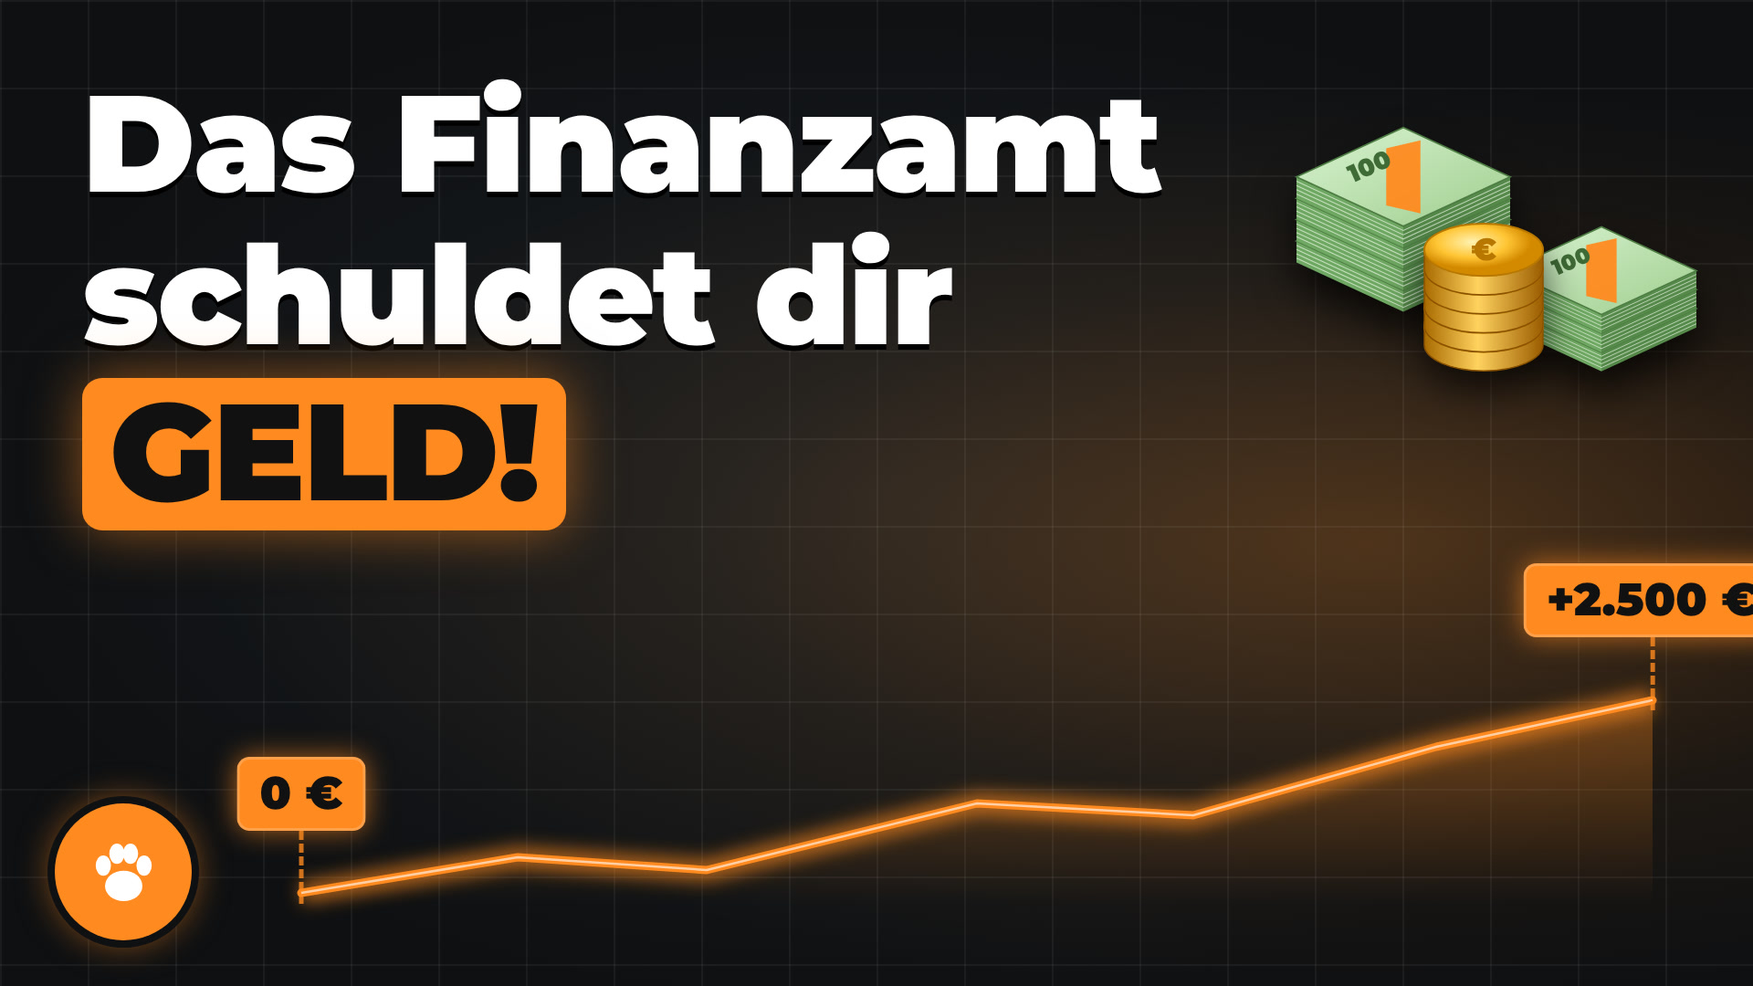
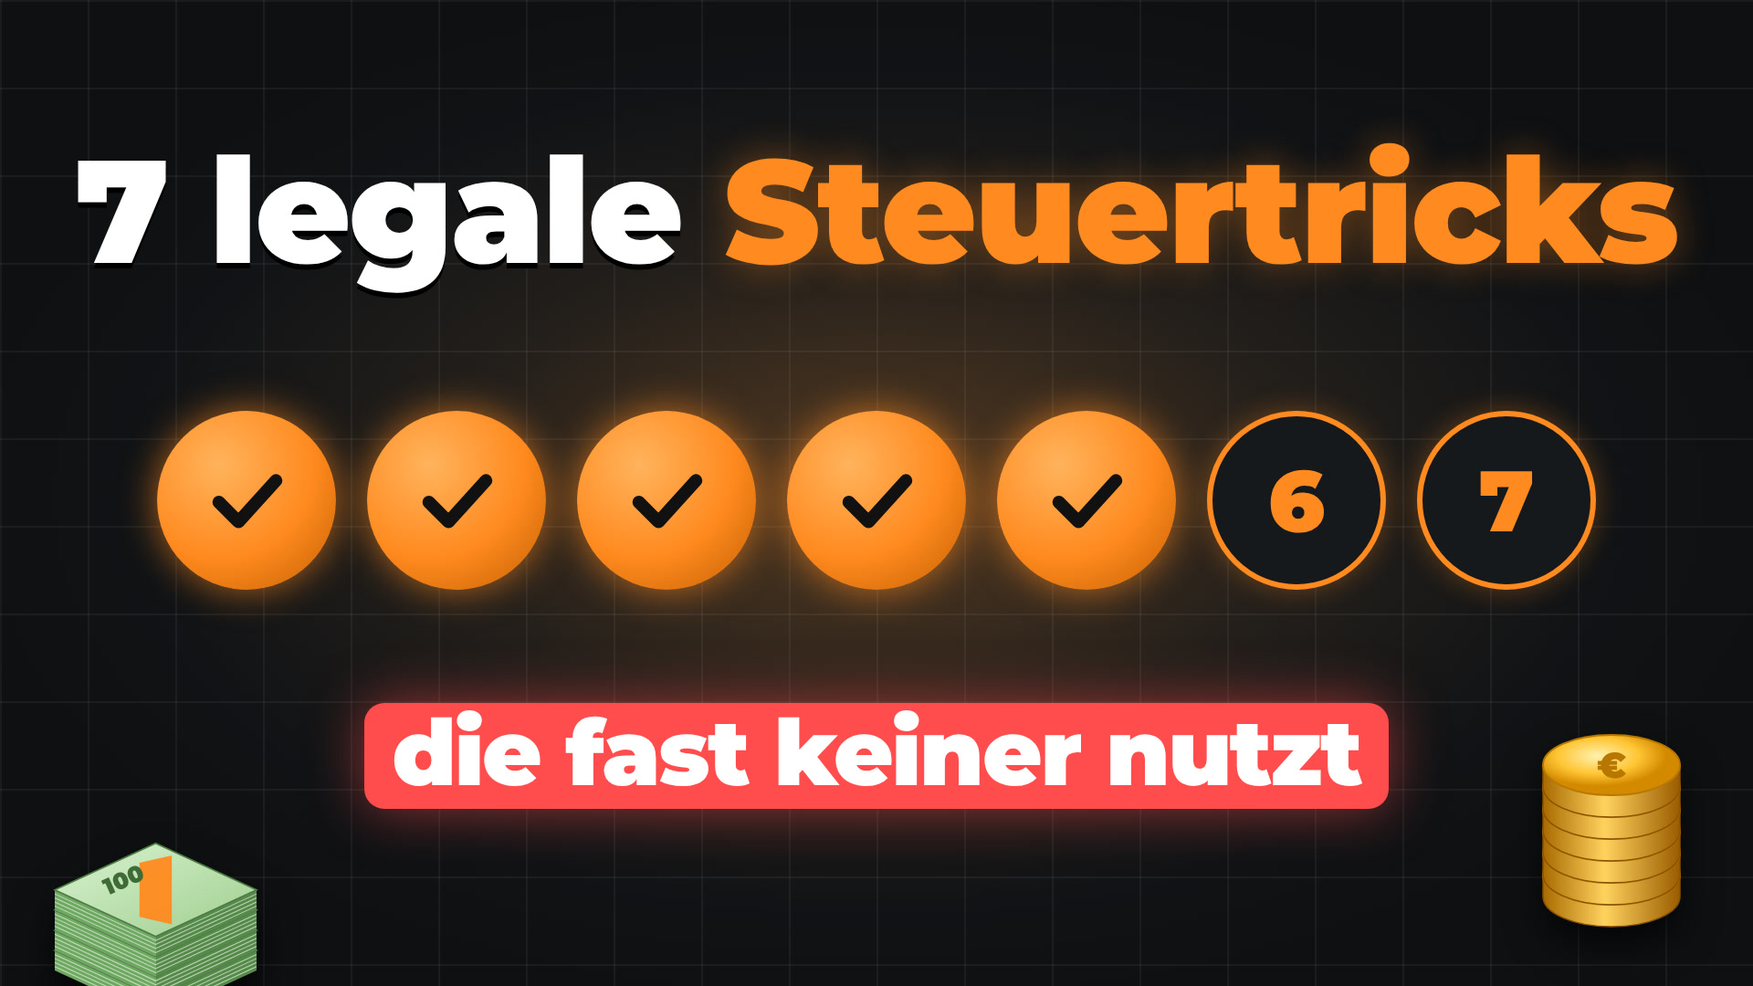
Steuer: Thumbnail + Cover im Dark-Glow-Stil (ohne Pfote)
Claude-Session: https://claude.ai/code/session_01XBnSHJxa6BBKhWdF9iTPXU

diff --git a/videos/thumbs-steuer/index.html b/videos/thumbs-steuer/index.html
@@ -8,7 +8,7 @@
       * { margin: 0; padding: 0; box-sizing: border-box; }
       html, body { width: 1080px; height: 1920px; overflow: hidden; background: #0e1012; }
       #root { position: relative; width: 100%; height: 100%; font-family: Montserrat, sans-serif; overflow: hidden;
-        background: radial-gradient(ellipse at 78% 55%, #ff8a1f40 0%, #ff8a1f10 35%, transparent 60%),
+        background: radial-gradient(ellipse at 50% 50%, #ff8a1f40 0%, #ff8a1f10 35%, transparent 60%),
                     radial-gradient(ellipse at 50% 50%, #1b1f22 0%, #0e1012 75%); }
       #raster { position: absolute; inset: 0; background-image: linear-gradient(#ffffff0d 2px, transparent 2px), linear-gradient(90deg, #ffffff0d 2px, transparent 2px);
         background-size: 96px 96px; }
@@ -18,7 +18,7 @@
   <body>
     <div id="root" data-composition-id="main" data-start="0" data-duration="1" data-width="1080" data-height="1920">
       <div id="raster"></div>
-<div id="v0" class="scene clip" data-start="0" data-duration="1" data-track-index="1"><svg viewBox="0 -60 260 300" style="position:absolute;left:160px;top:250px;width:312.0px;height:360.0px;overflow:visible;filter:drop-shadow(0 24px 22px #000b);z-index:2"><defs><linearGradient id="b8t" x1="0" y1="0" x2="1" y2="1"><stop offset="0" stop-color="#d9f2d0"/><stop offset="1" stop-color="#9fcf8f"/></linearGradient></defs><polygon points="0,200 130.0,260.0 130.0,286.0 0,226" fill="#6fa862"/><polygon points="260,200 130.0,260.0 130.0,286.0 260,226" fill="#558a4a"/><path d="M0 205.2 L130.0 265.2 L260 205.2" fill="none" stroke="#e8f5e2" stroke-width="1.2" opacity="0.7"/><path d="M0 210.4 L130.0 270.4 L260 210.4" fill="none" stroke="#e8f5e2" stroke-width="1.2" opacity="0.7"/><path d="M0 215.6 L130.0 275.6 L260 215.6" fill="none" stroke="#e8f5e2" stroke-width="1.2" opacity="0.7"/><path d="M0 220.8 L130.0 280.8 L260 220.8" fill="none" stroke="#e8f5e2" stroke-width="1.2" opacity="0.7"/><polygon points="0,200 130.0,140.0 260,200 130.0,260.0" fill="url(#b8t)" stroke="#4d7d43" stroke-width="2"/><polygon points="0,174 130.0,234.0 130.0,260.0 0,200" fill="#6fa862"/><polygon points="260,174 130.0,234.0 130.0,260.0 260,200" fill="#558a4a"/><path d="M0 179.2 L130.0 239.2 L260 179.2" fill="none" stroke="#e8f5e2" stroke-width="1.2" opacity="0.7"/><path d="M0 184.4 L130.0 244.4 L260 184.4" fill="none" stroke="#e8f5e2" stroke-width="1.2" opacity="0.7"/><path d="M0 189.6 L130.0 249.6 L260 189.6" fill="none" stroke="#e8f5e2" stroke-width="1.2" opacity="0.7"/><path d="M0 194.8 L130.0 254.8 L260 194.8" fill="none" stroke="#e8f5e2" stroke-width="1.2" opacity="0.7"/><polygon points="0,174 130.0,114.0 260,174 130.0,234.0" fill="url(#b8t)" stroke="#4d7d43" stroke-width="2"/><polygon points="0,148 130.0,208.0 130.0,234.0 0,174" fill="#6fa862"/><polygon points="260,148 130.0,208.0 130.0,234.0 260,174" fill="#558a4a"/><path d="M0 153.2 L130.0 213.2 L260 153.2" fill="none" stroke="#e8f5e2" stroke-width="1.2" opacity="0.7"/><path d="M0 158.4 L130.0 218.4 L260 158.4" fill="none" stroke="#e8f5e2" stroke-width="1.2" opacity="0.7"/><path d="M0 163.6 L130.0 223.6 L260 163.6" fill="none" stroke="#e8f5e2" stroke-width="1.2" opacity="0.7"/><path d="M0 168.8 L130.0 228.8 L260 168.8" fill="none" stroke="#e8f5e2" stroke-width="1.2" opacity="0.7"/><polygon points="0,148 130.0,88.0 260,148 130.0,208.0" fill="url(#b8t)" stroke="#4d7d43" stroke-width="2"/><polygon points="0,122 130.0,182.0 130.0,208.0 0,148" fill="#6fa862"/><polygon points="260,122 130.0,182.0 130.0,208.0 260,148" fill="#558a4a"/><path d="M0 127.2 L130.0 187.2 L260 127.2" fill="none" stroke="#e8f5e2" stroke-width="1.2" opacity="0.7"/><path d="M0 132.4 L130.0 192.4 L260 132.4" fill="none" stroke="#e8f5e2" stroke-width="1.2" opacity="0.7"/><path d="M0 137.6 L130.0 197.6 L260 137.6" fill="none" stroke="#e8f5e2" stroke-width="1.2" opacity="0.7"/><path d="M0 142.8 L130.0 202.8 L260 142.8" fill="none" stroke="#e8f5e2" stroke-width="1.2" opacity="0.7"/><polygon points="0,122 130.0,62.0 260,122 130.0,182.0" fill="url(#b8t)" stroke="#4d7d43" stroke-width="2"/><polygon points="109.2,87.2 150.79999999999998,77.6 150.79999999999998,166.4 109.2,156.8" fill="#ff8a1f" opacity="0.95"/><text x="65.0" y="130" font-family="Montserrat" font-weight="900" font-size="30" fill="#3f6b36" transform="rotate(-24 65.0 122)">100</text></svg><svg viewBox="0 0 190 276.0" style="position:absolute;left:680px;top:230px;width:190px;height:276.0px;overflow:visible;filter:drop-shadow(0 20px 20px #000a);z-index:2"><defs><linearGradient id="m9s" x1="0" x2="1"><stop offset="0" stop-color="#a86a00"/><stop offset="0.45" stop-color="#ffd25e"/><stop offset="1" stop-color="#9a5c00"/></linearGradient><radialGradient id="m9t" cx="0.4" cy="0.35"><stop offset="0" stop-color="#fff2b0"/><stop offset="0.6" stop-color="#ffc533"/><stop offset="1" stop-color="#d48a00"/></radialGradient></defs><path d="M0 198.79999999999998 L0 229.2 A95.0 41.8 0 0 0 190 229.2 L190 198.79999999999998 Z" fill="url(#m9s)" stroke="#8a5200" stroke-width="1.5"/><ellipse cx="95.0" cy="198.79999999999998" rx="95.0" ry="41.8" fill="url(#m9t)" stroke="#b87800" stroke-width="2"/><path d="M0 168.39999999999998 L0 198.79999999999998 A95.0 41.8 0 0 0 190 198.79999999999998 L190 168.39999999999998 Z" fill="url(#m9s)" stroke="#8a5200" stroke-width="1.5"/><ellipse cx="95.0" cy="168.39999999999998" rx="95.0" ry="41.8" fill="url(#m9t)" stroke="#b87800" stroke-width="2"/><path d="M0 137.99999999999997 L0 168.39999999999998 A95.0 41.8 0 0 0 190 168.39999999999998 L190 137.99999999999997 Z" fill="url(#m9s)" stroke="#8a5200" stroke-width="1.5"/><ellipse cx="95.0" cy="137.99999999999997" rx="95.0" ry="41.8" fill="url(#m9t)" stroke="#b87800" stroke-width="2"/><path d="M0 107.6 L0 138.0 A95.0 41.8 0 0 0 190 138.0 L190 107.6 Z" fill="url(#m9s)" stroke="#8a5200" stroke-width="1.5"/><ellipse cx="95.0" cy="107.6" rx="95.0" ry="41.8" fill="url(#m9t)" stroke="#b87800" stroke-width="2"/><path d="M0 77.19999999999997 L0 107.59999999999998 A95.0 41.8 0 0 0 190 107.59999999999998 L190 77.19999999999997 Z" fill="url(#m9s)" stroke="#8a5200" stroke-width="1.5"/><ellipse cx="95.0" cy="77.19999999999997" rx="95.0" ry="41.8" fill="url(#m9t)" stroke="#b87800" stroke-width="2"/><path d="M0 46.79999999999998 L0 77.19999999999999 A95.0 41.8 0 0 0 190 77.19999999999999 L190 46.79999999999998 Z" fill="url(#m9s)" stroke="#8a5200" stroke-width="1.5"/><ellipse cx="95.0" cy="46.79999999999998" rx="95.0" ry="41.8" fill="url(#m9t)" stroke="#b87800" stroke-width="2"/><text x="95.0" y="63.89999999999998" text-anchor="middle" font-family="Montserrat" font-weight="900" font-size="49.4" fill="#b87800">€</text></svg><div style="position:absolute;left:0px;top:640px;width:1080px;font-weight:900;font-size:118px;line-height:1.02;letter-spacing:-2px;text-align:center;display:flex;flex-direction:column;gap:14px;z-index:3"><div style="color:#fff;text-shadow:0 6px 0 #000">Das Finanzamt</div><div style="color:#fff;text-shadow:0 6px 0 #000">schuldet dir</div><div><span style="display:inline-block;padding:4px 30px 10px;border-radius:22px;background:#ff8a1f;color:#111;box-shadow:0 0 60px #ff8a1f88">GELD!</span></div></div><svg viewBox="0 0 800 300" style="position:absolute;left:140px;top:1270px;width:800px;height:300px;overflow:visible;z-index:1"><defs><linearGradient id="c10g" x1="0" y1="0" x2="0" y2="1"><stop offset="0" stop-color="#ff8a1f" stop-opacity="0.35"/><stop offset="1" stop-color="#ff8a1f" stop-opacity="0"/></linearGradient><filter id="c10f" x="-20%" y="-20%" width="140%" height="140%"><feGaussianBlur stdDeviation="10"/></filter></defs><path d="M0 285 L128 234 L240 252 L400 156 L528 174 L672 75 L800 9 L800 300 L0 300 Z" fill="url(#c10g)"/><path d="M0 285 L128 234 L240 252 L400 156 L528 174 L672 75 L800 9" fill="none" stroke="#ff8a1f" stroke-width="22" stroke-linejoin="round" opacity="0.7" filter="url(#c10f)"/><path d="M0 285 L128 234 L240 252 L400 156 L528 174 L672 75 L800 9" fill="none" stroke="#ff8a1f" stroke-width="9" stroke-linejoin="round" stroke-linecap="round"/><path d="M0 285 L128 234 L240 252 L400 156 L528 174 L672 75 L800 9" fill="none" stroke="#fff" stroke-width="2.5" stroke-linejoin="round" opacity="0.6"/></svg><div style="position:absolute;left:140px;top:1405.0px;transform:translateX(-50%);z-index:2;display:flex;flex-direction:column;align-items:center"><div style="padding:6px 22px 8px;border-radius:14px;background:#ff8a1f;color:#111;font-weight:900;font-size:50px;white-space:nowrap;box-shadow:0 0 30px #ff8a1faa;border:3px solid #fff3">0 €</div><div style="width:0;height:80px;border-left:5px dashed #ff8a1f;opacity:0.8"></div></div><div style="position:absolute;left:940px;top:1129.0px;transform:translateX(-50%);z-index:2;display:flex;flex-direction:column;align-items:center"><div style="padding:6px 22px 8px;border-radius:14px;background:#ff8a1f;color:#111;font-weight:900;font-size:50px;white-space:nowrap;box-shadow:0 0 30px #ff8a1faa;border:3px solid #fff3">+2.500 €</div><div style="width:0;height:80px;border-left:5px dashed #ff8a1f;opacity:0.8"></div></div></div>
+<div id="v0" class="scene clip" data-start="0" data-duration="1" data-track-index="1"><div style="position:absolute;left:0px;top:220px;width:1080px;font-weight:900;font-size:118px;line-height:1.02;letter-spacing:-2px;text-align:center;display:flex;flex-direction:column;gap:14px;z-index:3"><div style="color:#fff;text-shadow:0 6px 0 #000">Das Finanzamt</div><div style="color:#fff;text-shadow:0 6px 0 #000">schuldet dir</div><div><span style="display:inline-block;padding:4px 30px 10px;border-radius:22px;background:#ff8a1f;color:#111;box-shadow:0 0 60px #ff8a1f88">GELD!</span></div></div><div style="position:absolute;left:200px;top:860px;width:680px;height:680px;border-radius:54.4px;background:linear-gradient(145deg,#2a2f33,#121517);border:8px solid #ff8a1f;box-shadow:0 0 80px #ff8a1f66, 0 40px 60px #000, inset 0 0 40px #000;z-index:2"><div style="position:absolute;inset:4%;border-radius:40.8px;border:3px solid #ffffff14"></div><div style="position:absolute;left:41%;top:6%;width:18%;height:18%"><div style="width:122.39999999999999px;height:122.39999999999999px;border-radius:50%;background:radial-gradient(circle at 35% 30%,#ffb35c,#ff8a1f 55%,#c25f00);box-shadow:0 0 40px #ff8a1faa;display:flex;align-items:center;justify-content:center"><svg viewBox="0 0 100 100" style="width:55%;height:55%"><path d="M22 52 L42 72 L80 30" fill="none" stroke="#111" stroke-width="13" stroke-linecap="round" stroke-linejoin="round"/></svg></div></div><div style="position:absolute;left:70%;top:23%;width:18%;height:18%"><div style="width:122.39999999999999px;height:122.39999999999999px;border-radius:50%;background:radial-gradient(circle at 35% 30%,#ffb35c,#ff8a1f 55%,#c25f00);box-shadow:0 0 40px #ff8a1faa;display:flex;align-items:center;justify-content:center"><svg viewBox="0 0 100 100" style="width:55%;height:55%"><path d="M22 52 L42 72 L80 30" fill="none" stroke="#111" stroke-width="13" stroke-linecap="round" stroke-linejoin="round"/></svg></div></div><div style="position:absolute;left:70%;top:59%;width:18%;height:18%"><div style="width:122.39999999999999px;height:122.39999999999999px;border-radius:50%;background:radial-gradient(circle at 35% 30%,#ffb35c,#ff8a1f 55%,#c25f00);box-shadow:0 0 40px #ff8a1faa;display:flex;align-items:center;justify-content:center"><svg viewBox="0 0 100 100" style="width:55%;height:55%"><path d="M22 52 L42 72 L80 30" fill="none" stroke="#111" stroke-width="13" stroke-linecap="round" stroke-linejoin="round"/></svg></div></div><div style="position:absolute;left:41%;top:76%;width:18%;height:18%"><div style="width:122.39999999999999px;height:122.39999999999999px;border-radius:50%;background:radial-gradient(circle at 35% 30%,#ffb35c,#ff8a1f 55%,#c25f00);box-shadow:0 0 40px #ff8a1faa;display:flex;align-items:center;justify-content:center"><svg viewBox="0 0 100 100" style="width:55%;height:55%"><path d="M22 52 L42 72 L80 30" fill="none" stroke="#111" stroke-width="13" stroke-linecap="round" stroke-linejoin="round"/></svg></div></div><div style="position:absolute;left:12%;top:59%;width:18%;height:18%"><div style="width:122.39999999999999px;height:122.39999999999999px;border-radius:50%;background:#16191b;border:6px solid #ff8a1f;box-shadow:0 0 30px #ff8a1f55;display:flex;align-items:center;justify-content:center;color:#ff8a1f;font-weight:900;font-size:59px">6</div></div><div style="position:absolute;left:12%;top:23%;width:18%;height:18%"><div style="width:122.39999999999999px;height:122.39999999999999px;border-radius:50%;background:#16191b;border:6px solid #ff8a1f;box-shadow:0 0 30px #ff8a1f55;display:flex;align-items:center;justify-content:center;color:#ff8a1f;font-weight:900;font-size:59px">7</div></div><div style="position:absolute;left:35%;top:35%;width:30%;height:30%;border-radius:50%;background:radial-gradient(circle at 35% 30%,#fff2b0,#ffc533 50%,#b87800);box-shadow:0 0 60px #ffc533aa;display:flex;align-items:center;justify-content:center;font-weight:900;font-size:95px;color:#8a5200">€</div></div><svg viewBox="0 0 170 248.0" style="position:absolute;left:780px;top:1360px;width:170px;height:248.0px;overflow:visible;filter:drop-shadow(0 20px 20px #000a);z-index:2"><defs><linearGradient id="m3s" x1="0" x2="1"><stop offset="0" stop-color="#a86a00"/><stop offset="0.45" stop-color="#ffd25e"/><stop offset="1" stop-color="#9a5c00"/></linearGradient><radialGradient id="m3t" cx="0.4" cy="0.35"><stop offset="0" stop-color="#fff2b0"/><stop offset="0.6" stop-color="#ffc533"/><stop offset="1" stop-color="#d48a00"/></radialGradient></defs><path d="M0 178.4 L0 205.6 A85.0 37.4 0 0 0 170 205.6 L170 178.4 Z" fill="url(#m3s)" stroke="#8a5200" stroke-width="1.5"/><ellipse cx="85.0" cy="178.4" rx="85.0" ry="37.4" fill="url(#m3t)" stroke="#b87800" stroke-width="2"/><path d="M0 151.20000000000002 L0 178.4 A85.0 37.4 0 0 0 170 178.4 L170 151.20000000000002 Z" fill="url(#m3s)" stroke="#8a5200" stroke-width="1.5"/><ellipse cx="85.0" cy="151.20000000000002" rx="85.0" ry="37.4" fill="url(#m3t)" stroke="#b87800" stroke-width="2"/><path d="M0 123.99999999999999 L0 151.2 A85.0 37.4 0 0 0 170 151.2 L170 123.99999999999999 Z" fill="url(#m3s)" stroke="#8a5200" stroke-width="1.5"/><ellipse cx="85.0" cy="123.99999999999999" rx="85.0" ry="37.4" fill="url(#m3t)" stroke="#b87800" stroke-width="2"/><path d="M0 96.8 L0 124.0 A85.0 37.4 0 0 0 170 124.0 L170 96.8 Z" fill="url(#m3s)" stroke="#8a5200" stroke-width="1.5"/><ellipse cx="85.0" cy="96.8" rx="85.0" ry="37.4" fill="url(#m3t)" stroke="#b87800" stroke-width="2"/><path d="M0 69.6 L0 96.8 A85.0 37.4 0 0 0 170 96.8 L170 69.6 Z" fill="url(#m3s)" stroke="#8a5200" stroke-width="1.5"/><ellipse cx="85.0" cy="69.6" rx="85.0" ry="37.4" fill="url(#m3t)" stroke="#b87800" stroke-width="2"/><path d="M0 42.39999999999999 L0 69.6 A85.0 37.4 0 0 0 170 69.6 L170 42.39999999999999 Z" fill="url(#m3s)" stroke="#8a5200" stroke-width="1.5"/><ellipse cx="85.0" cy="42.39999999999999" rx="85.0" ry="37.4" fill="url(#m3t)" stroke="#b87800" stroke-width="2"/><text x="85.0" y="57.69999999999999" text-anchor="middle" font-family="Montserrat" font-weight="900" font-size="44.2" fill="#b87800">€</text></svg><svg viewBox="0 -60 260 300" style="position:absolute;left:80px;top:1400px;width:234.0px;height:270.0px;overflow:visible;filter:drop-shadow(0 24px 22px #000b);z-index:2"><defs><linearGradient id="b4t" x1="0" y1="0" x2="1" y2="1"><stop offset="0" stop-color="#d9f2d0"/><stop offset="1" stop-color="#9fcf8f"/></linearGradient></defs><polygon points="0,200 130.0,260.0 130.0,286.0 0,226" fill="#6fa862"/><polygon points="260,200 130.0,260.0 130.0,286.0 260,226" fill="#558a4a"/><path d="M0 205.2 L130.0 265.2 L260 205.2" fill="none" stroke="#e8f5e2" stroke-width="1.2" opacity="0.7"/><path d="M0 210.4 L130.0 270.4 L260 210.4" fill="none" stroke="#e8f5e2" stroke-width="1.2" opacity="0.7"/><path d="M0 215.6 L130.0 275.6 L260 215.6" fill="none" stroke="#e8f5e2" stroke-width="1.2" opacity="0.7"/><path d="M0 220.8 L130.0 280.8 L260 220.8" fill="none" stroke="#e8f5e2" stroke-width="1.2" opacity="0.7"/><polygon points="0,200 130.0,140.0 260,200 130.0,260.0" fill="url(#b4t)" stroke="#4d7d43" stroke-width="2"/><polygon points="0,174 130.0,234.0 130.0,260.0 0,200" fill="#6fa862"/><polygon points="260,174 130.0,234.0 130.0,260.0 260,200" fill="#558a4a"/><path d="M0 179.2 L130.0 239.2 L260 179.2" fill="none" stroke="#e8f5e2" stroke-width="1.2" opacity="0.7"/><path d="M0 184.4 L130.0 244.4 L260 184.4" fill="none" stroke="#e8f5e2" stroke-width="1.2" opacity="0.7"/><path d="M0 189.6 L130.0 249.6 L260 189.6" fill="none" stroke="#e8f5e2" stroke-width="1.2" opacity="0.7"/><path d="M0 194.8 L130.0 254.8 L260 194.8" fill="none" stroke="#e8f5e2" stroke-width="1.2" opacity="0.7"/><polygon points="0,174 130.0,114.0 260,174 130.0,234.0" fill="url(#b4t)" stroke="#4d7d43" stroke-width="2"/><polygon points="0,148 130.0,208.0 130.0,234.0 0,174" fill="#6fa862"/><polygon points="260,148 130.0,208.0 130.0,234.0 260,174" fill="#558a4a"/><path d="M0 153.2 L130.0 213.2 L260 153.2" fill="none" stroke="#e8f5e2" stroke-width="1.2" opacity="0.7"/><path d="M0 158.4 L130.0 218.4 L260 158.4" fill="none" stroke="#e8f5e2" stroke-width="1.2" opacity="0.7"/><path d="M0 163.6 L130.0 223.6 L260 163.6" fill="none" stroke="#e8f5e2" stroke-width="1.2" opacity="0.7"/><path d="M0 168.8 L130.0 228.8 L260 168.8" fill="none" stroke="#e8f5e2" stroke-width="1.2" opacity="0.7"/><polygon points="0,148 130.0,88.0 260,148 130.0,208.0" fill="url(#b4t)" stroke="#4d7d43" stroke-width="2"/><polygon points="0,122 130.0,182.0 130.0,208.0 0,148" fill="#6fa862"/><polygon points="260,122 130.0,182.0 130.0,208.0 260,148" fill="#558a4a"/><path d="M0 127.2 L130.0 187.2 L260 127.2" fill="none" stroke="#e8f5e2" stroke-width="1.2" opacity="0.7"/><path d="M0 132.4 L130.0 192.4 L260 132.4" fill="none" stroke="#e8f5e2" stroke-width="1.2" opacity="0.7"/><path d="M0 137.6 L130.0 197.6 L260 137.6" fill="none" stroke="#e8f5e2" stroke-width="1.2" opacity="0.7"/><path d="M0 142.8 L130.0 202.8 L260 142.8" fill="none" stroke="#e8f5e2" stroke-width="1.2" opacity="0.7"/><polygon points="0,122 130.0,62.0 260,122 130.0,182.0" fill="url(#b4t)" stroke="#4d7d43" stroke-width="2"/><polygon points="109.2,87.2 150.79999999999998,77.6 150.79999999999998,166.4 109.2,156.8" fill="#ff8a1f" opacity="0.95"/><text x="65.0" y="130" font-family="Montserrat" font-weight="900" font-size="30" fill="#3f6b36" transform="rotate(-24 65.0 122)">100</text></svg></div>
     </div>
     <script>
       const tl = gsap.timeline({ paused: true });

diff --git a/videos/thumbs-steuer/build.py b/videos/thumbs-steuer/build.py
@@ -1,32 +1,47 @@
 #!/usr/bin/env python3
-"""Thumbnails (1920×1080) + TikTok-Cover (1080×1920) für longform-steuer – Stil „Dark Glow“ (scripts/thumbs.py).
-Aufruf: python3 build.py | python3 build.py tiktok   ·   Export: python3 ../../scripts/thumbs.py export . steuer"""
+"""Thumbnail (1920×1080, YouTube) + Cover (1080×1920, TikTok/Instagram) für longform-steuer – Stil „Dark Glow“.
+Aufruf: python3 build.py | python3 build.py tiktok"""
 import sys
 from pathlib import Path
 
 HERE = Path(__file__).parent
 sys.path.insert(0, str(HERE.parent.parent / "scripts"))
-from thumbs import OR, buendel, chart, muenzen, pill, seite, titel  # noqa: E402
+from thumbs import OR, ROT, buendel, muenzen, seite, titel  # noqa: E402
 
-STEIG = [(0, 0.05), (0.16, 0.22), (0.3, 0.16), (0.5, 0.48), (0.66, 0.42), (0.84, 0.75), (1, 0.97)]
+HAKEN = '<svg viewBox="0 0 100 100" style="width:55%;height:55%"><path d="M22 52 L42 72 L80 30" fill="none" stroke="#111" stroke-width="13" stroke-linecap="round" stroke-linejoin="round"/></svg>'
 
-V1 = (titel([("Das Finanzamt", "w"), ("schuldet dir", "w"), ("GELD!", "box")], 90, 80, 150)
-      + chart(STEIG, 330, 760, 1400, 230, OR, pills=[(0, "0 €"), (6, "+2.500 €")])
-      + buendel(1420, 30, 0.9, 4) + buendel(1650, 130, 0.8, 3) + muenzen(1560, 240, 5, 130))
 
-V2 = (f'<div style="position:absolute;left:70px;top:60px;font-weight:900;font-size:600px;line-height:1;color:{OR};text-shadow:0 0 80px {OR}aa, 0 14px 0 #000;z-index:3">7</div>'
-      + titel([("legale", "w"), ("Steuertricks", "o"), ("für JEDEN", "box")], 520, 150, 140)
-      + buendel(1330, 760, 1.0, 4) + muenzen(1640, 700, 6, 150))
+def kreis(n, offen, gr):
+    if offen:
+        return (f'<div style="width:{gr}px;height:{gr}px;border-radius:50%;background:radial-gradient(circle at 35% 30%,#ffb35c,{OR} 55%,#c25f00);'
+                f'box-shadow:0 0 40px {OR}aa;display:flex;align-items:center;justify-content:center">{HAKEN}</div>')
+    return (f'<div style="width:{gr}px;height:{gr}px;border-radius:50%;background:#16191b;border:6px solid {OR};box-shadow:0 0 30px {OR}55;'
+            f'display:flex;align-items:center;justify-content:center;color:{OR};font-weight:900;font-size:{gr * 0.48:.0f}px">{n}</div>')
 
-V3 = (titel([("Bis zu 4 Jahre", "w"), ("RÜCKWIRKEND!", "box")], 90, 50, 130)
-      + pill(1310, 70, "= über 2.500 €", OR, 64)
-      + chart([(0.125, 0.12), (0.375, 0.36), (0.625, 0.6), (0.875, 0.88)], 140, 480, 1640, 380, OR,
-              pills=[(0, "+650 €"), (1, "+650 €"), (2, "+650 €"), (3, "+650 €")], achse=["2022", "2023", "2024", "2025"]))
 
-TT = (buendel(150, 170, 1.0, 4) + muenzen(680, 230, 6, 190)
-      + titel([("Das Finanzamt", "w"), ("schuldet dir", "w"), ("GELD!", "box")], 0, 640, 118, w=1080, align="center")
-      + chart(STEIG, 140, 1270, 800, 300, OR, pills=[(0, "0 €"), (6, "+2.500 €")]))
+def schloesser(gr):
+    return "".join(kreis(i + 1, i < 5, gr) for i in range(7))
+
+
+def tresor(x, y, s):
+    pos = [(50, 15), (79, 32), (79, 68), (50, 85), (21, 68), (21, 32)]
+    zu = {4, 5}
+    kreise = "".join(f'<div style="position:absolute;left:{px - 9}%;top:{py - 9}%;width:18%;height:18%">{kreis({4: 6, 5: 7}.get(i, i + 1), i not in zu, s * 0.18)}</div>' for i, (px, py) in enumerate(pos))
+    return (f'<div style="position:absolute;left:{x}px;top:{y}px;width:{s}px;height:{s}px;border-radius:{s * 0.08}px;background:linear-gradient(145deg,#2a2f33,#121517);'
+            f'border:8px solid {OR};box-shadow:0 0 80px {OR}66, 0 40px 60px #000, inset 0 0 40px #000;z-index:2">'
+            f'<div style="position:absolute;inset:4%;border-radius:{s * 0.06}px;border:3px solid #ffffff14"></div>{kreise}'
+            f'<div style="position:absolute;left:35%;top:35%;width:30%;height:30%;border-radius:50%;background:radial-gradient(circle at 35% 30%,#fff2b0,#ffc533 50%,#b87800);'
+            f'box-shadow:0 0 60px #ffc533aa;display:flex;align-items:center;justify-content:center;font-weight:900;font-size:{s * 0.14:.0f}px;color:#8a5200">€</div></div>')
+
+
+YT = (titel([('7 legale <span style="color:#ff8a1f;text-shadow:0 0 40px #ff8a1f66">Steuertricks</span>', "w")], 0, 150, 160, w=1920, align="center")
+      + f'<div style="position:absolute;left:0;top:450px;width:1920px;display:flex;justify-content:center;gap:34px;z-index:2">{schloesser(196)}</div>'
+      + titel([("die fast keiner nutzt", "rot")], 0, 770, 100, w=1920, align="center")
+      + buendel(60, 820, 0.85, 4) + muenzen(1690, 800, 6, 150))
+
+TT = (titel([("Das Finanzamt", "w"), ("schuldet dir", "w"), ("GELD!", "box")], 0, 220, 118, w=1080, align="center")
+      + tresor(200, 860, 680) + muenzen(780, 1360, 6, 170) + buendel(80, 1400, 0.9, 4))
 
 if __name__ == "__main__":
     tiktok = sys.argv[1:2] == ["tiktok"]
-    seite(HERE, [TT] if tiktok else [V1, V2, V3], tiktok=tiktok)
+    seite(HERE, [TT] if tiktok else [YT], tiktok=tiktok, glow=("50%", "50%"))
